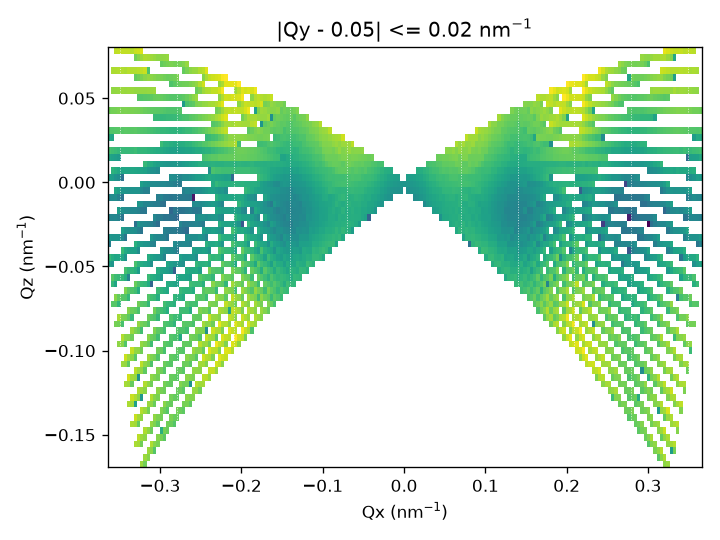
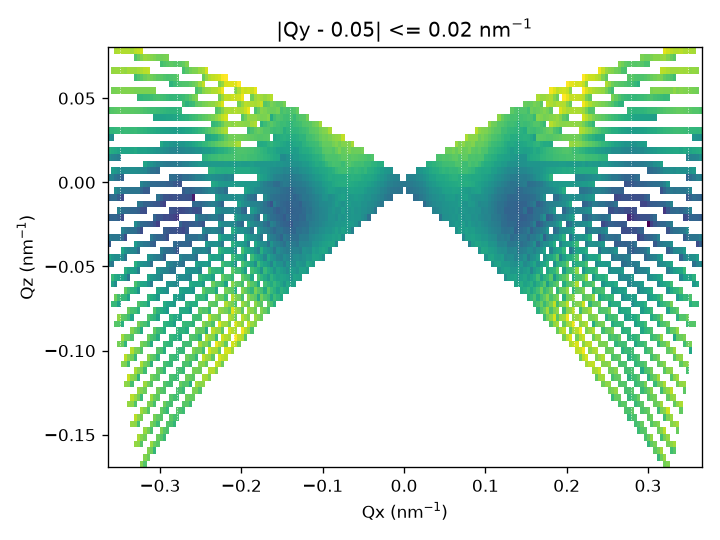
fix(mapping): QMap2D divides by exposure N without flooring at 1
Exposure-weighted maps (N = sum 1/d) can have N < 1; mean, dilated
smoothing and 1D slices now use H/N for all N > 0. Exposure-weighted
slices use sigma = sqrt(H)/N. Regenerated the HOWTO Qx-Qz map figure.

Changed region(s): [[0.1528, 0.0889, 0.9778, 0.8593]]

diff --git a/src/cd_reduce/reduction/mapping.py b/src/cd_reduce/reduction/mapping.py
@@ -278,7 +278,9 @@ class QMap2D:
     def mean(self) -> NDArray[np.float64]:
         """Unsmoothed mean intensity ``H / N`` per bin (``NaN`` where ``N == 0``)."""
         with np.errstate(divide="ignore", invalid="ignore"):
-            return np.where(self.N > 0, self.H / np.maximum(self.N, 1.0), np.nan)
+            return np.where(
+                self.N > 0, self.H / np.where(self.N > 0, self.N, 1.0), np.nan
+            )
 
     def smoothed(
         self,
@@ -298,7 +300,7 @@ class QMap2D:
           filter of size ``dilate_bins``.
         """
         if dilate_bins is not None:
-            m = np.where(self.N > 0, self.H / np.maximum(self.N, 1.0), 0.0)
+            m = np.nan_to_num(self.mean, nan=0.0)
             md = ndimage.maximum_filter(m, size=dilate_bins)
             sampled = (
                 ndimage.maximum_filter((self.N > 0).astype(np.uint8), size=dilate_bins)
@@ -416,10 +418,16 @@ class QMap2D:
             )
 
         with np.errstate(divide="ignore", invalid="ignore"):
-            mean_1d = np.where(n_1d > 0, h_1d / np.maximum(n_1d, 1.0), np.nan)
-            sigma_1d = np.where(
-                n_1d > 0, np.abs(mean_1d) / np.sqrt(np.maximum(n_1d, 1.0)), np.nan
-            )
+            pos = n_1d > 0
+            n_safe = np.where(pos, n_1d, 1.0)
+            mean_1d = np.where(pos, h_1d / n_safe, np.nan)
+            if self.metadata.get("quantity") == "D":
+                # exposure-weighted map: H = detected photons, N = exposure
+                sigma_1d = np.where(
+                    pos, np.sqrt(np.maximum(h_1d, 0.0)) / n_safe, np.nan
+                )
+            else:
+                sigma_1d = np.where(pos, np.abs(mean_1d) / np.sqrt(n_safe), np.nan)
         cuts = dict(self.cuts)
         if cut_range is not None:
             cuts[ortho_name] = cut_range

diff --git a/tests/roughness/test_maps.py b/tests/roughness/test_maps.py
@@ -133,3 +133,33 @@ def test_smoothed_sigma_q_in_inverse_nm():
         widths.append(np.sqrt(np.sum(prof * xc**2) - np.sum(prof * xc) ** 2))
     assert widths[0] == pytest.approx(widths[1], rel=0.05)
     assert widths[0] == pytest.approx(0.1, rel=0.1)
+
+
+def test_map_reduced_mean_no_floor_when_exposure_below_one():
+    # d_per_photon >> 1 so N = sum(1/d) << 1; mean must still be H / N.
+    p = _px([0.1, 0.1], [0, 0], [0.2, 0.2], [50.0, 150.0], [25.0, 25.0])
+    qm = map_reduced(
+        p, "qx-qz", slab_halfwidth=0.1, bin_q=(0.2, 0.4),
+        x_range=(0, 0.2), y_range=(0, 0.4),
+    )  # fmt: skip
+    assert qm.N[0, 0] == pytest.approx(0.08)
+    assert qm.mean[0, 0] == pytest.approx(qm.H[0, 0] / qm.N[0, 0])
+    assert qm.mean[0, 0] == pytest.approx(100.0)
+    assert qm.smoothed(dilate_bins=(1, 1))[0, 0] == pytest.approx(100.0)
+    tr = qm.slice_1d("Qx")
+    assert tr.intensity[0] == pytest.approx(100.0)
+    # exposure-weighted sigma = sqrt(H) / N (H = detected photons = 8)
+    assert tr.sigma[0] == pytest.approx(np.sqrt(8.0) / 0.08)
+
+
+def test_count_map_mean_and_slice_unchanged():
+    H = np.array([[4.0, 0.0], [9.0, 2.0]])
+    N = np.array([[2.0, 0.0], [3.0, 1.0]])
+    qm = QMap2D(
+        H=H, N=N, x_edges=np.array([0.0, 1.0, 2.0]),
+        y_edges=np.array([0.0, 1.0, 2.0]), x_domain="Qx", y_domain="Qz",
+    )  # fmt: skip
+    np.testing.assert_allclose(qm.mean, [[2.0, np.nan], [3.0, 2.0]])
+    tr = qm.slice_1d("Qx")
+    np.testing.assert_allclose(tr.intensity, [2.0, 11.0 / 4.0])
+    np.testing.assert_allclose(tr.sigma, [2.0 / np.sqrt(2.0), 2.75 / 2.0])
